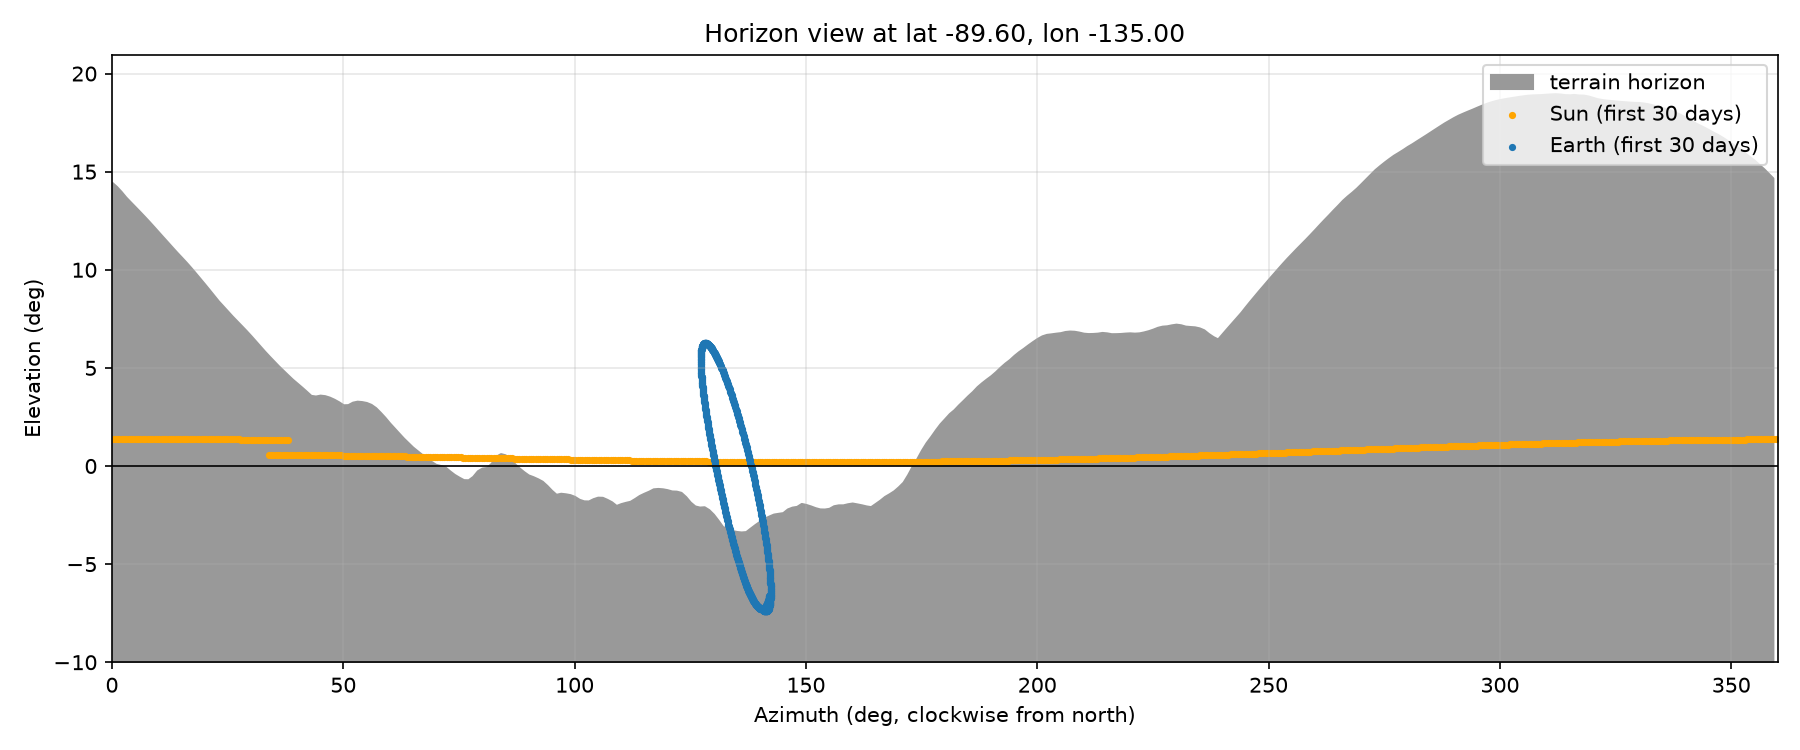
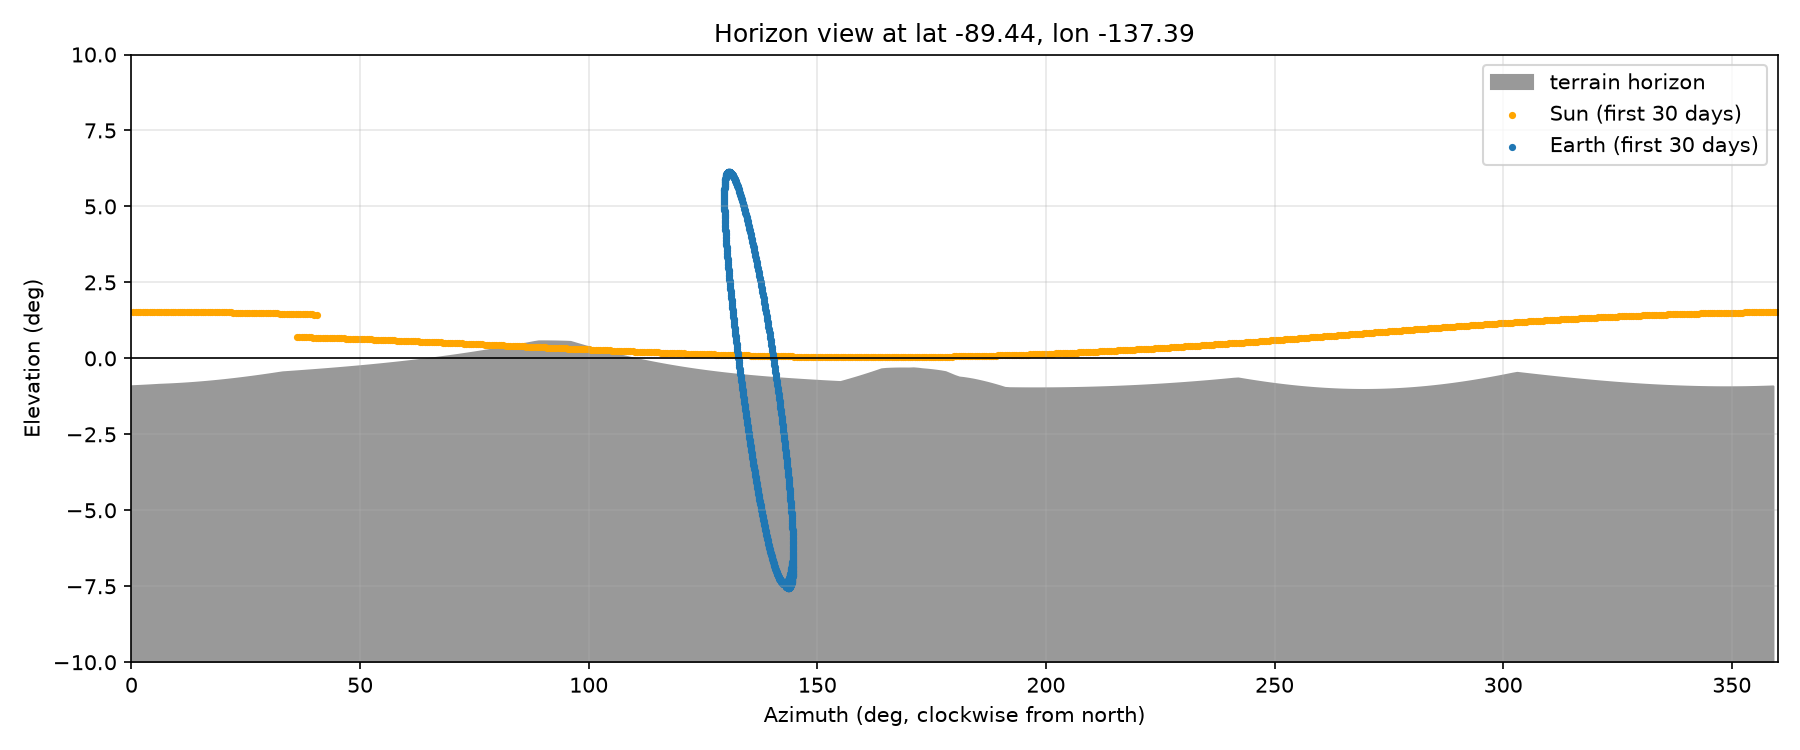
Add site metrics module; log sensitivity results

diff --git a/backend/site_demo.py b/backend/site_demo.py
@@ -1,49 +1,39 @@
+import argparse
 from pathlib import Path
-import sys
 
 import matplotlib.pyplot as plt
-import numpy as np
 
-from horizon import above_horizon, horizon_profile, site_from_xy
-from lunar_geometry import sun_earth_series
+from horizon import site_from_xy
+from metrics import site_metrics
 
 FIGURES = Path(__file__).resolve().parents[1] / "docs" / "figures"
 FIGURES.mkdir(parents=True, exist_ok=True)
-# Site in the DEM's polar stereographic meters. Default: a ridge point picked by eye.
-# Usage: python backend/site_demo.py [x_m y_m]
-X_M, Y_M = (float(sys.argv[1]), float(sys.argv[2])) if len(sys.argv) == 3 else (-10_000.0, -10_000.0)
-LAT_DEG, LON_DEG = site_from_xy(X_M, Y_M)
-START_UTC = "2027-01-01 00:00:00 UTC"
-DAYS = 365
-STEP_H = 1.0
 
-print(f"Site: lat {LAT_DEG:.3f}, lon {LON_DEG:.3f}")
-az_grid, hor = horizon_profile(LAT_DEG, LON_DEG)
+parser = argparse.ArgumentParser(description="Sun/Earth metrics and horizon view for one site.")
+parser.add_argument("x", type=float, nargs="?", default=-10_200.0, help="DEM x, meters")
+parser.add_argument("y", type=float, nargs="?", default=-11_600.0, help="DEM y, meters")
+parser.add_argument("--limb", type=float, default=0.27, help="Sun-limb offset, deg")
+parser.add_argument("--height", type=float, default=2.0, help="observer height, m")
+parser.add_argument("--days", type=int, default=365)
+args = parser.parse_args()
+
+START_UTC = "2027-01-01 00:00:00 UTC"
+STEP_H = 1.0
+lat, lon = site_from_xy(args.x, args.y)
+print(f"Site: x {args.x:.0f} m, y {args.y:.0f} m -> lat {lat:.3f}, lon {lon:.3f}")
+print(f"Assumptions: Sun-limb {args.limb} deg, observer height {args.height} m, "
+      f"{args.days} days from {START_UTC[:10]}, {STEP_H:.0f} h steps")
+
+m = site_metrics(lat, lon, START_UTC, args.days, STEP_H,
+                 sun_limb_deg=args.limb, observer_height_m=args.height)
+hor, az_grid, r = m["horizon_el_deg"], m["horizon_az_deg"], m["series"]
 print(f"Terrain horizon elevation: min {hor.min():.2f}, max {hor.max():.2f}, "
       f"mean {hor.mean():.2f} deg")
-
-r = sun_earth_series(LAT_DEG, LON_DEG, START_UTC, DAYS, step_hours=STEP_H)
-sun_flat = r["sun_el"] > 0
-earth_flat = r["earth_el"] > 0
-sun_up = above_horizon(r["sun_el"], r["sun_az"], az_grid, hor)
-earth_up = above_horizon(r["earth_el"], r["earth_az"], az_grid, hor)
-
-
-def longest_run_days(mask):
-    best = run = 0
-    for v in mask:
-        run = run + 1 if v else 0
-        best = max(best, run)
-    return best * STEP_H / 24.0
-
-
-print(f"Sun   above flat horizon {100 * sun_flat.mean():5.1f} %   "
-      f"above terrain horizon {100 * sun_up.mean():5.1f} %")
-print(f"Earth above flat horizon {100 * earth_flat.mean():5.1f} %   "
-      f"above terrain horizon {100 * earth_up.mean():5.1f} %")
-print(f"Both above terrain horizon: {100 * (sun_up & earth_up).mean():5.1f} %")
-print(f"Longest Sun-dark stretch:   {longest_run_days(~sun_up):6.1f} days")
-print(f"Longest Earth-gap stretch:  {longest_run_days(~earth_up):6.1f} days")
+print(f"Sun visible:        {m['sun_lit_pct']:5.1f} %   longest dark stretch: "
+      f"{m['longest_dark_days']:5.1f} days")
+print(f"Earth visible:      {m['earth_visible_pct']:5.1f} %   longest comms gap:   "
+      f"{m['longest_comms_gap_days']:5.1f} days")
+print(f"Both at once:       {m['both_pct']:5.1f} %")
 
 n = int(30 * 24 / STEP_H)  # first 30 days
 fig, ax = plt.subplots(figsize=(12, 5))
@@ -55,9 +45,11 @@ ax.set_xlim(0, 360)
 ax.set_ylim(-10, max(10, hor.max() + 2))
 ax.set_xlabel("Azimuth (deg, clockwise from north)")
 ax.set_ylabel("Elevation (deg)")
-ax.set_title(f"Horizon view at lat {LAT_DEG:.2f}, lon {LON_DEG:.2f}")
+ax.set_title(f"Horizon view at lat {lat:.2f}, lon {lon:.2f} (observer height {args.height} m)")
 ax.legend(loc="upper right")
 ax.grid(alpha=0.3)
 fig.tight_layout()
-fig.savefig(FIGURES / "site_horizon_view.png", dpi=150)
+name = f"site_horizon_view_x{args.x:.0f}_y{args.y:.0f}.png"
+fig.savefig(FIGURES / name, dpi=150)
+print("Saved", FIGURES / name)
 plt.show()

diff --git a/backend/metrics.py b/backend/metrics.py
@@ -1,0 +1,40 @@
+import numpy as np
+
+from horizon import above_horizon, horizon_profile
+from lunar_geometry import sun_earth_series
+
+
+def longest_run_hours(mask, step_hours):
+    """Length in hours of the longest stretch of consecutive True values."""
+    padded = np.concatenate(([False], np.asarray(mask, dtype=bool), [False]))
+    edges = np.flatnonzero(padded[1:] != padded[:-1])  # alternating run starts and ends
+    if edges.size == 0:
+        return 0.0
+    return float((edges[1::2] - edges[0::2]).max()) * step_hours
+
+
+def site_metrics(lat_deg, lon_deg, start_utc, days, step_hours=1.0,
+                 sun_limb_deg=0.27, observer_height_m=2.0, earth_limb_deg=0.0,
+                 max_range_m=100_000.0, az_step_deg=1.0):
+    """Power and comms metrics for one site over a time span.
+    sun_limb_deg: count the Sun as visible when its upper edge clears the terrain
+      (0.27 = the Sun's angular radius, 0 = center only).
+    observer_height_m: height of the antenna / solar panel above the ground.
+    earth_limb_deg: same idea for Earth (its angular radius from the Moon is about 0.95 deg)."""
+    az_grid, hor = horizon_profile(lat_deg, lon_deg, max_range_m=max_range_m,
+                                   az_step_deg=az_step_deg, observer_height_m=observer_height_m)
+    series = sun_earth_series(lat_deg, lon_deg, start_utc, days, step_hours)
+    sun_up = above_horizon(series["sun_el"] + sun_limb_deg, series["sun_az"], az_grid, hor)
+    earth_up = above_horizon(series["earth_el"] + earth_limb_deg, series["earth_az"], az_grid, hor)
+    return {
+        "horizon_az_deg": az_grid,
+        "horizon_el_deg": hor,
+        "series": series,
+        "sun_up": sun_up,
+        "earth_up": earth_up,
+        "sun_lit_pct": 100 * sun_up.mean(),
+        "earth_visible_pct": 100 * earth_up.mean(),
+        "both_pct": 100 * (sun_up & earth_up).mean(),
+        "longest_dark_days": longest_run_hours(~sun_up, step_hours) / 24.0,
+        "longest_comms_gap_days": longest_run_hours(~earth_up, step_hours) / 24.0,
+    }

diff --git a/DECISIONS.md b/DECISIONS.md
@@ -86,6 +86,15 @@ Earth above flat horizon  45.6 %   above terrain horizon  64.8 %
 Both above terrain horizon:  23.6 %
 Longest Sun-dark stretch:     21.4 days
 Longest Earth-gap stretch:    10.1 days , Not very good.
+- - Zoom scan at the best cell (200 m grid, 4 km box, 2027, 80 m DEM, terrain within 30 km):
+  Sun center, ground level:        72.4 % at x -10.2, y -11.6 km (lat -89.491, lon -138.67)
+  + Sun upper edge (0.27 deg):     77.2 %
+  + observer height 2 m:           87.9 %
+  Same top cell in all three runs. Published average illumination for persistently
+  lit polar regions: 77-88 % (20-year hourly simulations, different DEM, assumptions
+  not checked). Verdict: consistent under stated assumptions; absolute percentages
+  depend on Sun-disk and height assumptions by ~15 points, so the tool exposes both.
+- Best cell is ~1.8 km from the published 89.44 S, 218.2 E point.
 
 ## Open questions
 - Event date and submission deadline

diff --git a/STATE.md b/STATE.md
@@ -7,10 +7,10 @@
 - Apollo 11 first check runs
 
 ## Next
-1. Run illumination_map.py on the real DEM, record timing and best cells, compare with published maps
-2. Rerun site_demo.py at the best cell; save figures to docs/figures/
-3. Apollo 11 published sun elevation (still open)
-4. Presets (candidate regions, verify from NASA); power and comms metrics; then FastAPI
+1. Run site_demo.py at the best cell; record Sun/Earth metrics; compare to scan (87.9 %)
+2. Apollo 11 published sun elevation (still open)
+3. Presets (candidate regions, verify from NASA); comparison view (side-by-side sites)
+4. FastAPI wrapper around site_metrics; then the web UI
 
 ## Open questions
 - Exact challenge requirements and judging criteria (not yet read)
